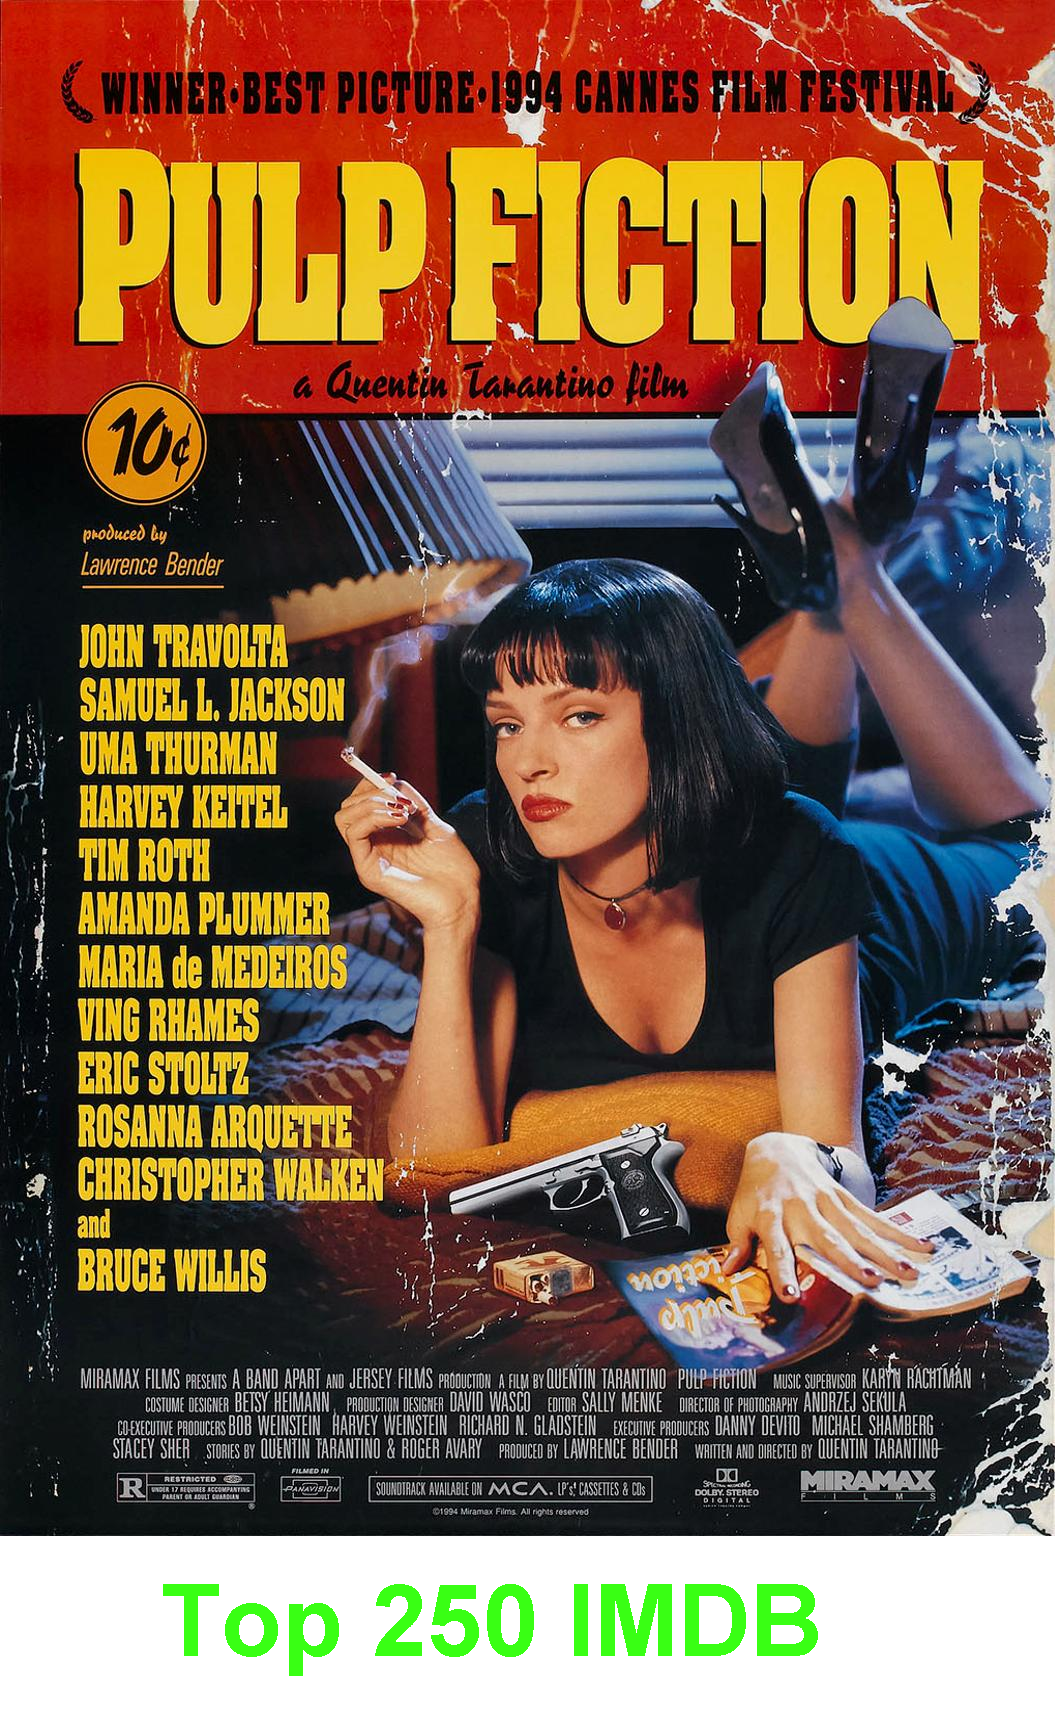
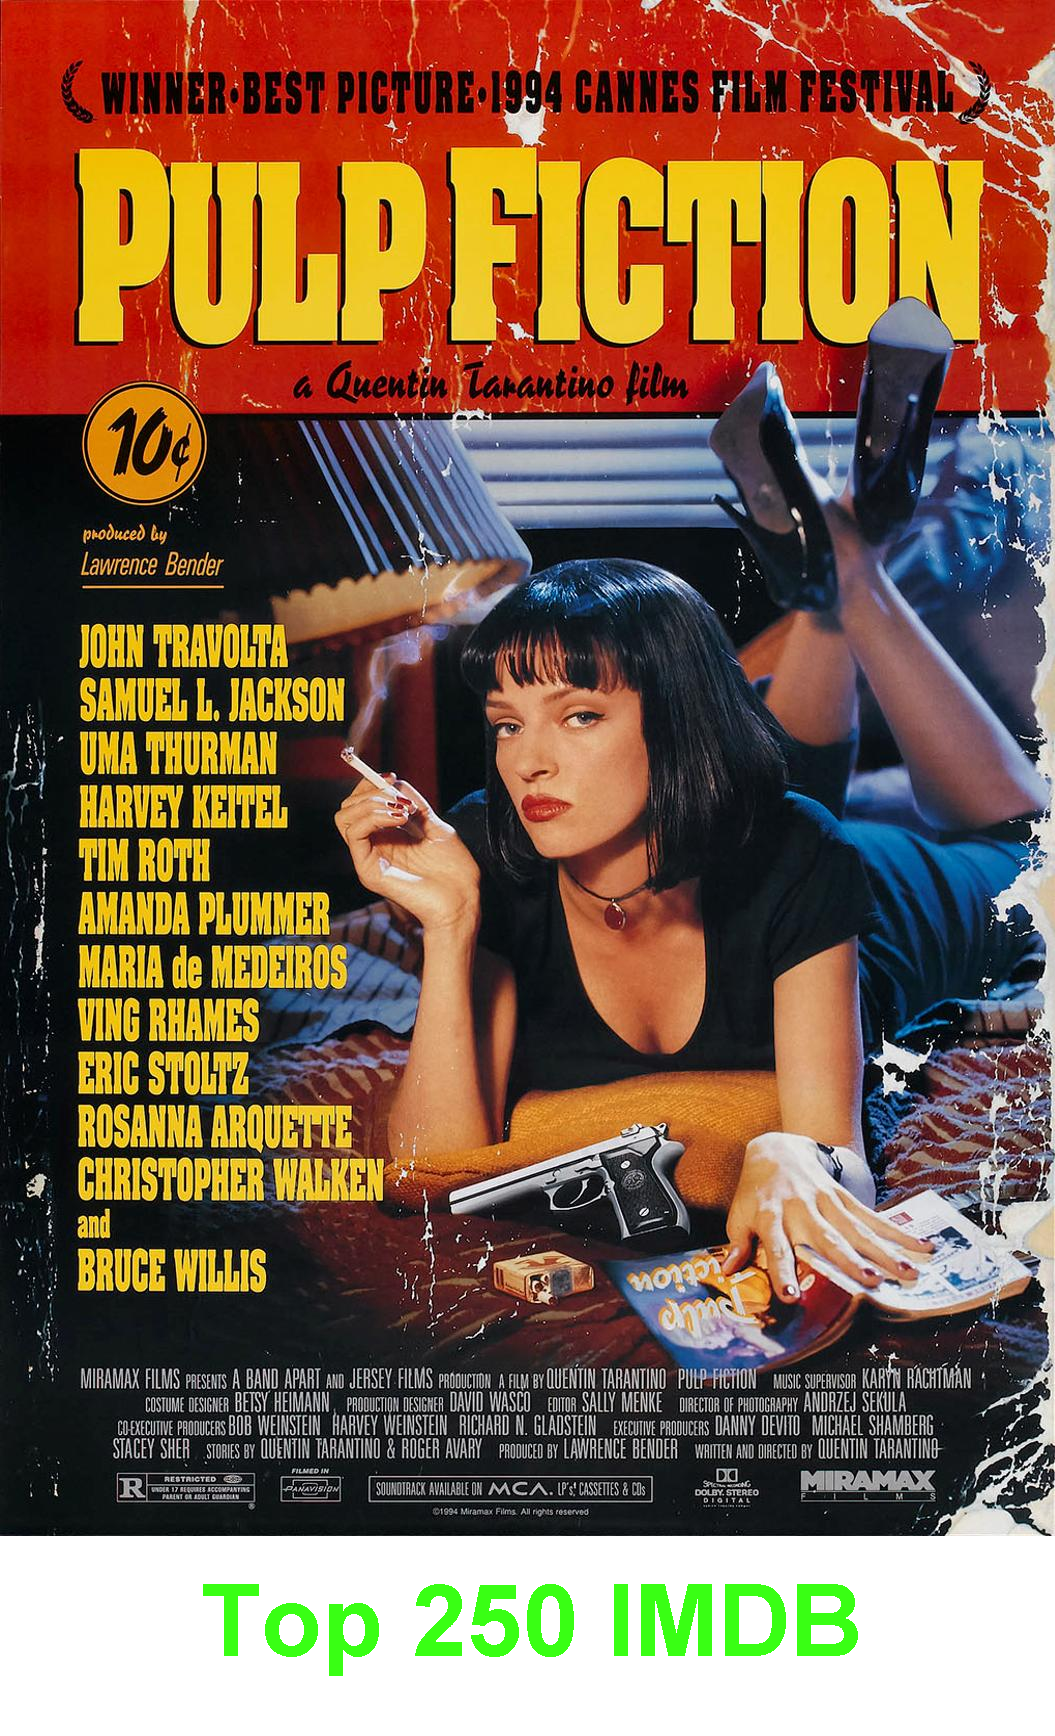
retornando 10 melhores filmes com poster com alta qualidade

Changed region(s): [[0.1517, 0.9021, 0.819, 0.9643]]

diff --git a/alura-stickers/src/App.java b/alura-stickers/src/App.java
@@ -12,7 +12,7 @@ public class App {
     public static void main(String[] args) throws Exception {
 
         //1- Fazer conexão http e buscar os top 250 filmes
-        String url = "https://api.mocki.io/v2/549a5d8b/Top250Movies";
+        String url = "https://raw.githubusercontent.com/alura-cursos/imersao-java/api/TopMovies.json";
         URI endereco = URI.create(url);
         var client = HttpClient.newHttpClient();
         var request = HttpRequest.newBuilder(endereco).GET().build();
@@ -28,9 +28,12 @@ public class App {
 
         //exibir e manipular dados
         var geradora = new GeradoraDeStickers();
-        for (Map<String,String> filme : listaDeFilmes) {
+        for (int i = 0; i < 10; i++) {
+            Map<String,String> filme = listaDeFilmes.get(i);
 
-            String urlImagem = filme.get("image");
+            String urlImagem = filme.get("image").replaceAll("(@+)(.*).jpg$", "$1.jpg");
+
+
             String titulo = filme.get("title").replace(":", " -");
 
             InputStream inputStream = new URL(urlImagem).openStream();

diff --git a/alura-stickers/src/GeradoraDeStickers.java b/alura-stickers/src/GeradoraDeStickers.java
@@ -34,7 +34,7 @@ public class GeradoraDeStickers {
         graphics.setFont(fonte);
 
         //add uma frase para a nova imagem
-        graphics.drawString("Top 250 IMDB", 160, novaAltura - 80);
+        graphics.drawString("Top 250 IMDB", 200, novaAltura - 80);
 
         //escrever a nova imagem em um arquivo
         ImageIO.write(novaImagem, "png", new File(nomeArquivo));
